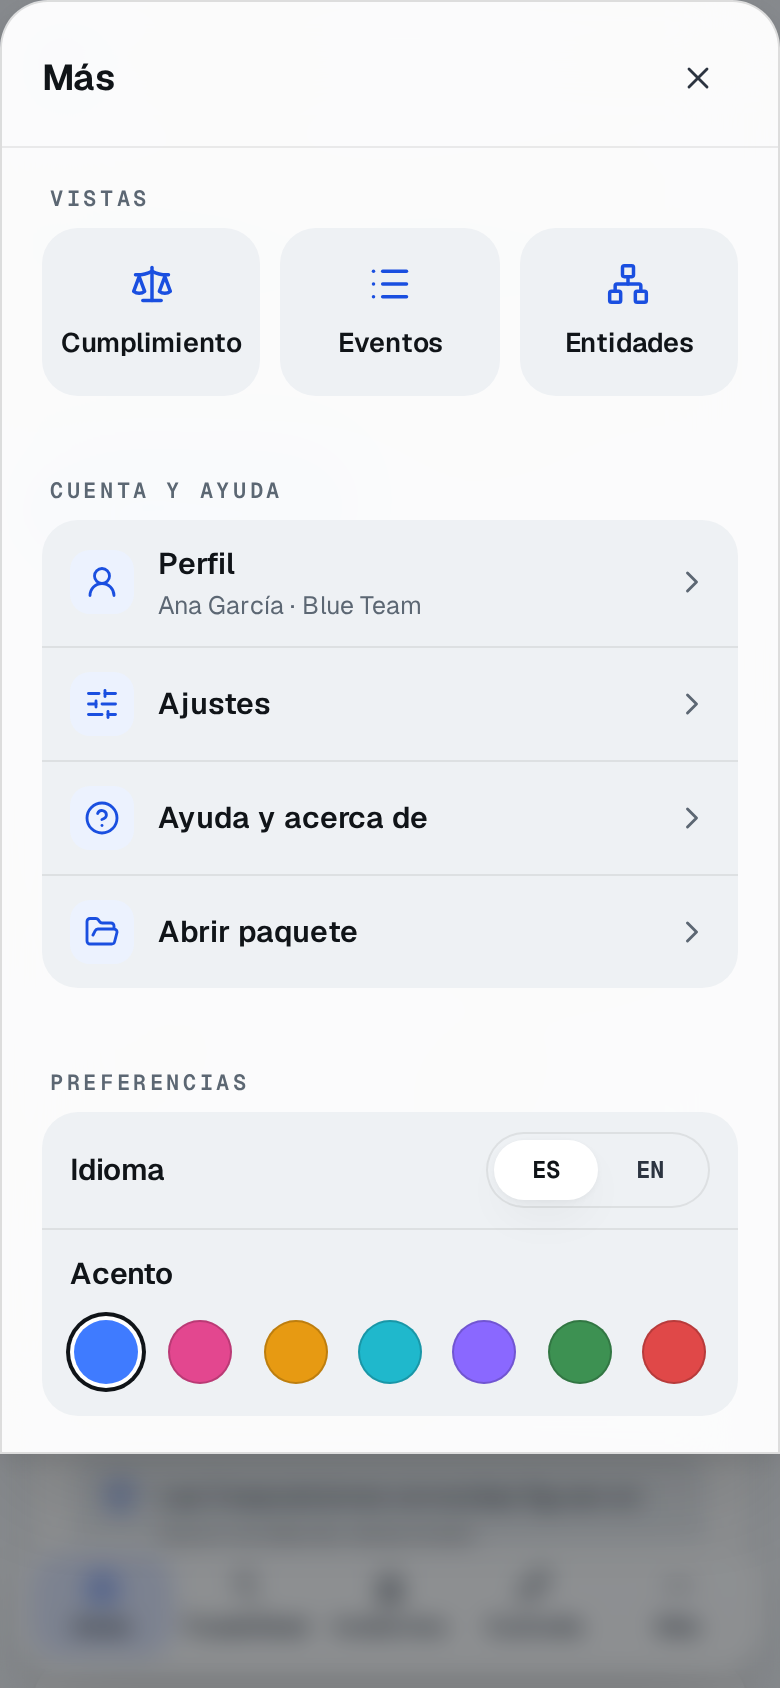
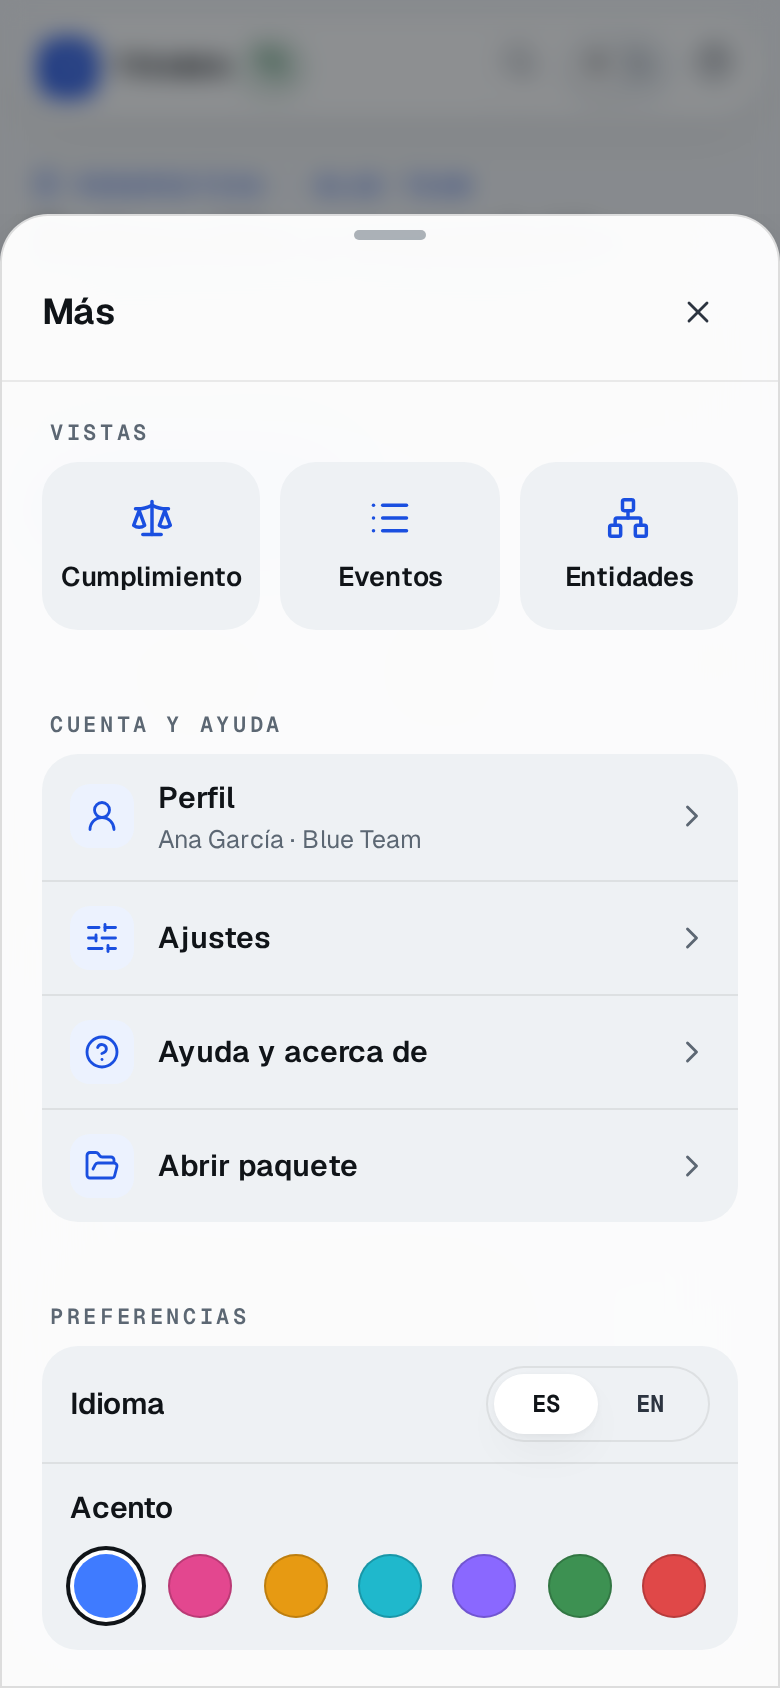
Ancla abajo las hojas del móvil y versiona los ficheros de la consola
Con inset 0 y altura automática el diálogo ocupaba toda la pantalla y la
tarjeta quedaba arriba con un hueco debajo. Ahora se ancla al borde
inferior, mide lo que su contenido y lleva asa de arrastre. Los estilos y
scripts llevan ?v=<versión> para que GitHub Pages no sirva una
publicación anterior desde la caché.

diff --git a/docs/data/bundle.js b/docs/data/bundle.js
@@ -2,15 +2,15 @@
 window.EVIDENCE_BUNDLE = {
  "generator": {
   "name": "TRAMA",
-  "version": "0.2.2",
+  "version": "0.2.3",
   "schema_version": "1.0.0"
  },
- "generated_at_utc": "2026-10-22T14:28:38Z",
+ "generated_at_utc": "2026-10-22T16:50:25Z",
  "forensic_custody_verification": {
   "valid": true,
   "total_sealed_events": 6,
[4 lines of base64/hex data omitted]
   "broken_at_index": null,
   "reason": null
@@ -23,8 +23,8 @@ window.EVIDENCE_BUNDLE = {
    "record_number": 9821,
[3 lines of base64/hex data omitted]
-   "ingested_at_utc": "2026-10-22T14:28:38.115835Z"
[1 lines of base64/hex data omitted]
+   "ingested_at_utc": "2026-10-22T16:50:25.600195Z"
   },
   {
    "index": 1,
@@ -32,9 +32,9 @@ window.EVIDENCE_BUNDLE = {
    "source_file": "/var/log/audit/audit.log",
    "record_number": 44102,
[3 lines of base64/hex data omitted]
-   "ingested_at_utc": "2026-10-22T14:28:38.116727Z"
[2 lines of base64/hex data omitted]
+   "ingested_at_utc": "2026-10-22T16:50:25.600713Z"
   },
   {
    "index": 2,
@@ -42,9 +42,9 @@ window.EVIDENCE_BUNDLE = {
    "source_file": "/var/log/audit/audit.log",
    "record_number": 44189,
[3 lines of base64/hex data omitted]
-   "ingested_at_utc": "2026-10-22T14:28:38.116901Z"
[2 lines of base64/hex data omitted]
+   "ingested_at_utc": "2026-10-22T16:50:25.600820Z"
   },
   {
    "index": 3,
@@ -52,9 +52,9 @@ window.EVIDENCE_BUNDLE = {
    "source_file": "/var/log/audit/audit.log",
    "record_number": 44210,
[3 lines of base64/hex data omitted]
-   "ingested_at_utc": "2026-10-22T14:28:38.117099Z"
[2 lines of base64/hex data omitted]
+   "ingested_at_utc": "2026-10-22T16:50:25.600928Z"
   },
   {
    "index": 4,
@@ -62,9 +62,9 @@ window.EVIDENCE_BUNDLE = {
    "source_file": "Security_DC01_20261021.evtx",
    "record_number": 148920,
[3 lines of base64/hex data omitted]
-   "ingested_at_utc": "2026-10-22T14:28:38.117405Z"
[2 lines of base64/hex data omitted]
+   "ingested_at_utc": "2026-10-22T16:50:25.601033Z"
   },
   {
    "index": 5,
@@ -72,9 +72,9 @@ window.EVIDENCE_BUNDLE = {
    "source_file": "Security_DC01_20261021.evtx",
    "record_number": 149310,
[3 lines of base64/hex data omitted]
-   "ingested_at_utc": "2026-10-22T14:28:38.117623Z"
[2 lines of base64/hex data omitted]
+   "ingested_at_utc": "2026-10-22T16:50:25.601170Z"
   }
  ],
  "offensive_findings": [
@@ -178,8 +178,8 @@ window.EVIDENCE_BUNDLE = {
     "record_number": 9821,
[3 lines of base64/hex data omitted]
-    "ingested_at_utc": "2026-10-22T14:28:38.115835Z"
[1 lines of base64/hex data omitted]
+    "ingested_at_utc": "2026-10-22T16:50:25.600195Z"
    },
    "event": {
     "category": "web_request",
@@ -248,9 +248,9 @@ window.EVIDENCE_BUNDLE = {
     "source_file": "/var/log/audit/audit.log",
     "record_number": 44102,
[3 lines of base64/hex data omitted]
-    "ingested_at_utc": "2026-10-22T14:28:38.116727Z"
[2 lines of base64/hex data omitted]
+    "ingested_at_utc": "2026-10-22T16:50:25.600713Z"
    },
    "event": {
     "category": "process_creation",
@@ -319,9 +319,9 @@ window.EVIDENCE_BUNDLE = {
     "source_file": "/var/log/audit/audit.log",
     "record_number": 44189,
[3 lines of base64/hex data omitted]
-    "ingested_at_utc": "2026-10-22T14:28:38.116901Z"
[2 lines of base64/hex data omitted]
+    "ingested_at_utc": "2026-10-22T16:50:25.600820Z"
    },
    "event": {
     "category": "process_creation",
@@ -390,9 +390,9 @@ window.EVIDENCE_BUNDLE = {
     "source_file": "/var/log/audit/audit.log",
     "record_number": 44210,
[3 lines of base64/hex data omitted]
-    "ingested_at_utc": "2026-10-22T14:28:38.117099Z"
[2 lines of base64/hex data omitted]
+    "ingested_at_utc": "2026-10-22T16:50:25.600928Z"
    },
    "event": {
     "category": "privilege_escalation",
@@ -473,9 +473,9 @@ window.EVIDENCE_BUNDLE = {
     "source_file": "Security_DC01_20261021.evtx",
     "record_number": 148920,
[3 lines of base64/hex data omitted]
-    "ingested_at_utc": "2026-10-22T14:28:38.117405Z"
[2 lines of base64/hex data omitted]
+    "ingested_at_utc": "2026-10-22T16:50:25.601033Z"
    },
    "event": {
     "category": "authentication",
@@ -547,9 +547,9 @@ window.EVIDENCE_BUNDLE = {
     "source_file": "Security_DC01_20261021.evtx",
     "record_number": 149310,
[3 lines of base64/hex data omitted]
-    "ingested_at_utc": "2026-10-22T14:28:38.117623Z"
[2 lines of base64/hex data omitted]
+    "ingested_at_utc": "2026-10-22T16:50:25.601170Z"
    },
    "event": {
     "category": "lateral_movement",
@@ -645,7 +645,7 @@ window.EVIDENCE_BUNDLE = {
       "target_host": "DC01.CORP.LOCAL",
       "command_line": null,
[3 lines of base64/hex data omitted]
       "offensive_exposures": [
        {
         "finding_id": "AD-SPN-RC4-001",
@@ -668,7 +668,7 @@ window.EVIDENCE_BUNDLE = {
       "target_host": "DC01.CORP.LOCAL",
       "command_line": "evil-winrm -i 10.10.10.5 -u svc_sql -p [REDACTED]",
[3 lines of base64/hex data omitted]
       "offensive_exposures": [
        {
         "finding_id": "AD-SPN-RC4-001",
@@ -758,7 +758,7 @@ window.EVIDENCE_BUNDLE = {
       "target_host": "WEB-PROD-01",
       "command_line": "find / -perm -4000 2>/dev/null && getcap -r / 2>/dev/null",
[3 lines of base64/hex data omitted]
       "offensive_exposures": [
        {
         "finding_id": "WEB-SQLI-LOGIN-003",
@@ -780,7 +780,7 @@ window.EVIDENCE_BUNDLE = {
       "target_host": "WEB-PROD-01",
       "command_line": "/usr/bin/python3 -c import os; os.setuid(0); os.system('/bin/bash')",
[3 lines of base64/hex data omitted]
       "offensive_exposures": [
        {
         "finding_id": "LNX-CAP-SETUID-002",
@@ -877,7 +877,7 @@ window.EVIDENCE_BUNDLE = {
       "target_host": "WEB-PROD-01",
       "command_line": "POST /api/v1/login username=admin' UNION SELECT 1,username,password FROM users-- (User-Agent: sqlmap/1.8)",
[3 lines of base64/hex data omitted]
       "offensive_exposures": [
        {
         "finding_id": "WEB-SQLI-LOGIN-003",
@@ -899,7 +899,7 @@ window.EVIDENCE_BUNDLE = {
       "target_host": "WEB-PROD-01",
       "command_line": "/bin/bash -c id; whoami; uname -a",
[3 lines of base64/hex data omitted]
       "offensive_exposures": [
        {
         "finding_id": "WEB-SQLI-LOGIN-003",

diff --git a/docs/assets/app.css b/docs/assets/app.css
@@ -521,8 +521,12 @@ dl.gloss dd { margin: 0; color: var(--ink-2); font-size: 13.5px; }
   .bnav a, .bnav button { display: flex; flex-direction: column; align-items: center; justify-content: center; gap: 3px; min-height: 52px; border-radius: 16px; border: 0; background: transparent; color: var(--ink-2); text-decoration: none; font-size: 11px; font-weight: 600; cursor: pointer; }
   .bnav a[aria-current="page"] { color: var(--text); background: var(--tint); }
   .bnav a[aria-current="page"] .ico { color: var(--accent); }
-  dialog.sheet[open] { margin: auto 0 0; height: auto; width: 100vw; }
+  /* Hoja inferior: anclada abajo y con la altura de su contenido (con inset 0 se estiraba a toda la pantalla). */
+  dialog.sheet[open] { inset: auto 0 0 0; margin: 0; height: auto; max-height: 92dvh; width: 100vw; }
   dialog.sheet .dlg { width: 100vw; height: auto; max-height: 90dvh; border-radius: 24px 24px 0 0; }
+  /* Asa de arrastre, como en las hojas de iOS. */
+  dialog.sheet .dlg { position: relative; padding-top: 10px; }
+  dialog.sheet .dlg::before { content: ""; position: absolute; top: 7px; left: 50%; width: 36px; height: 5px; margin-left: -18px; border-radius: 999px; background: var(--line-strong, var(--muted)); opacity: .5; }
   .toasts { right: 12px; left: 12px; bottom: 96px; }
   dl.gloss { grid-template-columns: minmax(0, 1fr); }
   .cards-sm thead { display: none; }

diff --git a/docs/index.html b/docs/index.html
@@ -9,8 +9,8 @@
 <meta name="description" content="TRAMA correlaciona hallazgos de pentest, telemetría del SOC y no conformidades del ENS, la ISO/IEC 27001 y NIS2 en un paquete con cadena de custodia SHA-256 y Merkle. Procesamiento local, sin servidor.">
 <title>TRAMA</title>
 <link rel="icon" href="assets/favicon.svg" type="image/svg+xml">
-<link rel="stylesheet" href="assets/app.css">
-<script src="assets/theme-boot.js"></script>
+<link rel="stylesheet" href="assets/app.css?v=0.2.3">
+<script src="assets/theme-boot.js?v=0.2.3"></script>
 </head>
 <body>
 <a class="skip" href="#main" id="skip">Saltar al contenido</a>
@@ -66,10 +66,10 @@
 <div class="drop" id="drop" hidden></div>
 <input type="file" id="file-input" accept=".json,application/json" hidden>
 
-<script src="assets/vendor/lucide-icons.js"></script>
-<script src="data/bundle.js"></script>
-<script src="assets/sha256.js"></script>
-<script src="assets/i18n.js"></script>
-<script src="assets/app.js"></script>
+<script src="assets/vendor/lucide-icons.js?v=0.2.3"></script>
+<script src="data/bundle.js?v=0.2.3"></script>
+<script src="assets/sha256.js?v=0.2.3"></script>
+<script src="assets/i18n.js?v=0.2.3"></script>
+<script src="assets/app.js?v=0.2.3"></script>
 </body>
 </html>

diff --git a/tests/browser/test_dashboard_browser.py b/tests/browser/test_dashboard_browser.py
@@ -145,6 +145,12 @@ class ConsoleBrowserTest(unittest.TestCase):
             page.click("#more-btn")
             page.wait_for_selector("#dlg-more[open]")
             with self.subTest(ancho=width):
+                # Hoja inferior: pegada al borde de abajo y con la altura de su contenido.
+                box = page.evaluate("""() => { const r = document.getElementById('dlg-more').getBoundingClientRect();
+                    return [r.top, r.bottom, innerHeight]; }""")
+                self.assertAlmostEqual(box[1], box[2], delta=1)
+                if width == 390:
+                    self.assertGreater(box[0], 40, "la hoja no debe ocupar toda la pantalla")
                 self.assertEqual(page.locator("#dlg-more .tile").count(), 3)
                 self.assertEqual(page.locator("#dlg-more .group .grow-row").count(), 4)
                 self.assertEqual(page.locator("#dlg-more .more-k").count(), 3)

diff --git a/tests/test_static.py b/tests/test_static.py
@@ -56,7 +56,15 @@ class DashboardStaticTest(unittest.TestCase):
 
     def test_referenced_local_files_exist(self):
         for ref in re.findall(r'(?:src|href)="([^"#:]+)"', self.html):
-            self.assertTrue(os.path.exists(os.path.join(DOCS, ref)), ref)
+            self.assertTrue(os.path.exists(os.path.join(DOCS, ref.split("?")[0])), ref)
+
+    def test_assets_carry_current_version(self):
+        """Cada versión publicada invalida la caché del navegador: app.js?v=<versión>."""
+        from trama import __version__
+        refs = re.findall(r'(?:src|href)="((?:assets|data)/[^"]+\.(?:css|js)[^"]*)"', self.html)
+        self.assertTrue(refs)
+        for ref in refs:
+            self.assertTrue(ref.endswith("?v=" + __version__), ref)
         for ref in re.findall(r'url\("([^"]+)"\)', self.css):
             self.assertTrue(os.path.exists(os.path.join(DOCS, "assets", ref)), ref)
 

diff --git a/trama/__init__.py b/trama/__init__.py
@@ -2,6 +2,6 @@
 
 from .branding import NAME, SLUG, TAGLINE, AUTHOR
 
-__version__ = "0.2.2"
+__version__ = "0.2.3"
 
 __all__ = ["NAME", "SLUG", "TAGLINE", "AUTHOR", "__version__"]

diff --git a/README.md b/README.md
@@ -13,7 +13,7 @@
   <a href="LICENSE"><img alt="Licencia GPLv2" src="https://img.shields.io/badge/licencia-GPLv2-4169A1?style=flat"/></a>
   <img alt="Python 3.8 a 3.12" src="https://img.shields.io/badge/Python-3.8%E2%80%933.12-1A3DB8?style=flat&logo=python&logoColor=white"/>
   <img alt="Sin dependencias" src="https://img.shields.io/badge/dependencias-0-2E8B57?style=flat"/>
-  <img alt="121 pruebas" src="https://img.shields.io/badge/pruebas-121-2E8B57?style=flat"/>
+  <img alt="122 pruebas" src="https://img.shields.io/badge/pruebas-122-2E8B57?style=flat"/>
   <img alt="axe-core: 0 infracciones" src="https://img.shields.io/badge/axe--core-0%20infracciones-2E8B57?style=flat"/>
   <img alt="MITRE ATT&CK" src="https://img.shields.io/badge/MITRE-ATT%26CK-B42318?style=flat"/>
   <img alt="ENS RD 311/2022" src="https://img.shields.io/badge/ENS-RD%20311%2F2022-E07B39?style=flat"/>
@@ -296,14 +296,14 @@ python3 -m trama rules   [--rules DIR|F]
 
 ## Calidad
 
-**121 pruebas** con `unittest` (compatible con pytest), 18 de ellas en un Chromium real con axe-core.
+**122 pruebas** con `unittest` (compatible con pytest), 18 de ellas en un Chromium real con axe-core.
 
 | Conjunto | Pruebas | Qué cubre |
 |---|---:|---|
 | `tests/test_custody.py` | 23 | Merkle (vacío, orden, nodo impar, separación de dominio), enlaces, sellos, manipulación, truncado y **números canónicos** como en JavaScript (`1.0`, `1e-7`, `1e16`, `1e21`, `5e-324`) sin cambiar los hashes anteriores |
 | `tests/test_correlator.py` | 24 | Las tres reglas, ventana, orden, zonas horarias, referencias, postura, cifrado fuerte, puertos como texto, SUID y capabilities, sin duplicados, grupos independientes |
 | `tests/test_pipeline_cli.py` | 15 | Paquete, `verify` con manipulaciones, script del dashboard seguro, CLI y `python -m` sin avisos |
-| `tests/test_static.py` | 20 | Redacción profesional con `scripts/redaccion.py` sobre interfaz, documentos, reglas, datos de ejemplo y CLI (y su sensibilidad frente a giros conocidos), logotipo propio, consola sin recursos remotos ni `fetch`, CSP estricta, `innerHTML` solo para iconos vendorizados, iconos existentes, tokens claro/oscuro y 7 acentos, movimiento reducido, paridad y cobertura ES/EN (más de 150 claves), constantes NIS2 24/72/1, datos de ejemplo al día |
+| `tests/test_static.py` | 21 | Redacción profesional con `scripts/redaccion.py` sobre interfaz, documentos, reglas, datos de ejemplo y CLI (y su sensibilidad frente a giros conocidos), logotipo propio, consola sin recursos remotos ni `fetch`, CSP estricta, `innerHTML` solo para iconos vendorizados, iconos existentes, tokens claro/oscuro y 7 acentos, movimiento reducido, paridad y cobertura ES/EN (más de 150 claves), constantes NIS2 24/72/1, datos de ejemplo al día |
 | `tests/test_normalizer.py` · `test_rules.py` · `test_timeutil.py` | 21 | Esquema y contexto ofensivo, carga y validación de reglas, tiempo compatible con 3.8 |
 | `tests/browser/` | 18 | menú «Más» en móvil a 320 y 390 px; axe (0 infracciones) en las 7 vistas, las 5 perspectivas y todos los diálogos, en claro, oscuro y 390 px; sin desbordamiento horizontal ni iconos vacíos; solo peticiones locales; un paquete con HTML no se ejecuta; paquetes no válidos rechazados; verificación y manipulación; decimales verificados en el navegador; reloj NIS2 de la demo; portapapeles; incidente resaltado en Trazabilidad; teclado y búsqueda; inglés; perfil; ajustes; fundido de tema coordinado; movimiento reducido |
 
@@ -361,7 +361,8 @@ Detalle y criterios de aceptación en [ROADMAP.md](ROADMAP.md).
 |---|---|
 | 0.2.0 ✅ | Nombre definitivo, consola nueva con cinco perspectivas, vista de trazabilidad, plazos NIS2 y verificación en el navegador sin falsos positivos con decimales |
 | 0.2.1 ✅ | Redacción profesional de toda la interfaz y la documentación, marca propia y prueba de estilo |
-| **0.2.2** ✅ | Menú «Más» del móvil reorganizado según las pautas de iOS |
+| 0.2.2 ✅ | Menú «Más» del móvil reorganizado según las pautas de iOS |
+| **0.2.3** ✅ | Hojas del móvil ancladas abajo y versión en los ficheros de la consola |
 | 0.3.0 | Firma Ed25519 del paquete (Python puro) y ejercicios guiados por perspectiva |
 | 0.4.0 | Importar hallazgos de CTEM-Nexus y ENS AD Auditor y exportar a Rosetta con el sobre `yrd-ecosistema` |
 | 0.5.0 | Entregables por rol: dossier de auditoría, informe de impacto, IOC en STIX 2.1 y borradores Sigma |
@@ -385,6 +386,7 @@ TRAMA forma parte de un conjunto de herramientas GRC y de seguridad de código a
 
 | Versión | Fecha | Cambios |
 |---|---|---|
+| 0.2.3 | octubre de 2026 | Hojas del móvil ancladas abajo con asa de arrastre; versión en los ficheros de la consola para que el navegador no muestre una publicación anterior. |
 | 0.2.2 | octubre de 2026 | Menú «Más» del móvil reorganizado: vistas en rejilla, cuenta y ayuda en lista agrupada, idioma segmentado y acentos repartidos; filas por debajo de 360 px. |
 | 0.2.1 | octubre de 2026 | Textos de la consola (ES y EN) y de la documentación reescritos con registro profesional, sin preguntas retóricas ni tuteo; «El Hilo» pasa a «Trazabilidad» y «lentes», a «perspectivas»; logotipo propio; prueba automática de redacción. |
 | 0.2.0 | octubre de 2026 | Nombre definitivo TRAMA; consola nueva con cinco perspectivas por rol, vista de trazabilidad, plazos NIS2, custodia bloque a bloque, ES/EN, 7 acentos, ajustes, perfil y ayuda; serialización canónica con números como en JavaScript, que elimina el falso positivo con `1.0`; `dataset` y resumen de reglas en el paquete. |

diff --git a/CHANGELOG.md b/CHANGELOG.md
@@ -2,6 +2,16 @@
 
 Formato basado en [Keep a Changelog](https://keepachangelog.com/es-ES/1.1.0/); versiones según [SemVer](https://semver.org/lang/es/).
 
+## 0.2.3 · octubre de 2026
+
+### Corregido
+- **Las hojas del móvil quedaban arriba** («Más», Ajustes, Perfil, Ayuda), con un hueco vacío debajo. El diálogo tenía `inset: 0` y altura automática, así que ocupaba toda la pantalla y la tarjeta quedaba pegada arriba. Ahora se ancla abajo (`inset: auto 0 0`), mide lo que su contenido y llega como máximo al 92 % de la altura.
+- **El móvil seguía mostrando la versión anterior** tras publicar una nueva: GitHub Pages guarda los ficheros hasta 10 minutos. Los estilos y scripts de la consola llevan ahora la versión (`app.js?v=0.2.3`), así que cada publicación invalida la caché.
+
+### Añadido
+- Asa de arrastre en las hojas del móvil, como en iOS.
+- Pruebas: la hoja queda pegada al borde inferior y sin ocupar toda la pantalla; todos los estilos y scripts llevan la versión actual.
+
 ## 0.2.2 · octubre de 2026
 
 ### Cambiado

diff --git a/ROADMAP.md b/ROADMAP.md
@@ -68,6 +68,10 @@ Una PR por versión (`version/X.Y.Z` → `main`), con las pruebas y axe en verde
 ### v0.2.2 · Menú móvil
 - [x] «Más» en móvil: vistas en rejilla, cuenta y ayuda en lista agrupada, idioma segmentado y acentos repartidos; filas por debajo de 360 px.
 
+### v0.2.3 · Hojas del móvil y caché
+- [x] Hojas ancladas abajo, con la altura de su contenido y asa de arrastre.
+- [x] `?v=<versión>` en estilos y scripts para que cada publicación invalide la caché.
+
 ### v0.3.0 · Firma del paquete y ejercicios guiados
 - [ ] **Firma Ed25519** (RFC 8032) en Python puro, sin dependencias: `trama keygen`, `trama sign` y `trama verify --pubkey`. La cadena prueba la integridad; la firma prueba la autoría. Verificación también en la consola con WebCrypto cuando el navegador la ofrezca.
 - [ ] Verificación de firmas externas de `minisign` y `gpg --detach-sign` si las herramientas están instaladas.
